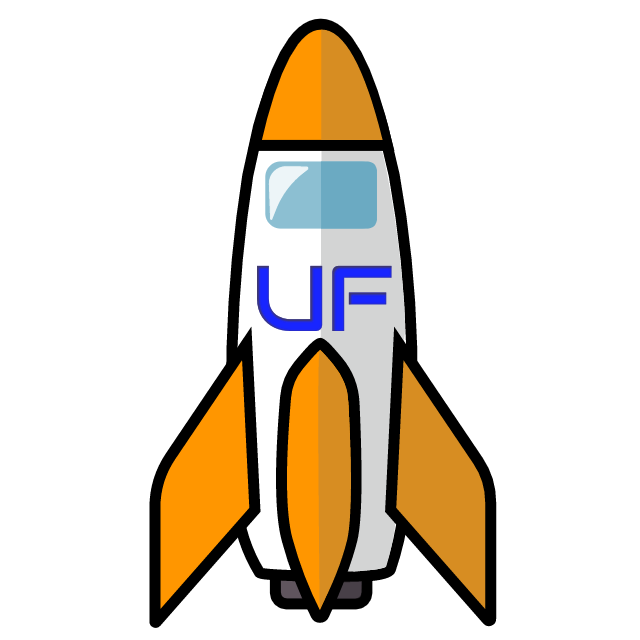
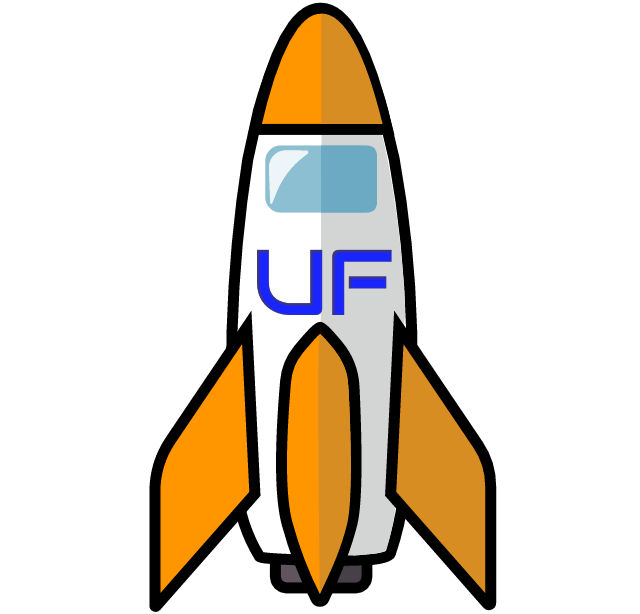
change look of fire
will add more animation later and make it better

diff --git a/css/style.css b/css/style.css
@@ -34,9 +34,15 @@ Basic properties
     padding: 0;
 }
 
+.container{
+  margin: 0 !important;
+  padding: 0 15px;
+}
+
 .navbar
 {
     padding:10px 0px;
+    background-color: #e8dddd !important;
    /* background-color:rgba(135, 206, 135, 0.767) !important; */
     border-bottom: none !important;
     transition: all 0.5s ease-in-out;
@@ -70,8 +76,14 @@ Basic properties
 }
 .navbar-inverse{
     background-color: transparent !important;
+    padding-right:  35px;
+    position:absolute; 
+    right:0;
 }
 
+.navbar-brand {
+    padding: 0 15px 15px !important;
+}
 
 
 
@@ -84,8 +96,8 @@ Slider--HOME
 ======================*/
 .slider{
     width: 100%;
-    height :700px;
-  
+    height: 900px;
+    background-color: black;
     color:black;
 }
 
@@ -104,7 +116,7 @@ max-width: 25%;
 
 .rocket{
     position: relative;
-    top: -100px;
+    top: -180px;
     margin-bottom:; 20%;
     animation: float 4s ease-in-out infinite;
 }
@@ -116,40 +128,221 @@ max-width: 25%;
 }
 
 
+/*.fire {
+  position: relative;
+      display: block;
+      width: 126px;
+      height: 180px;
+      background-color: red;
+      border-radius: 50% 50% 50% 50% / 60% 60% 40% 40%;
+      margin-left: auto;
+       margin-right: auto;
+    }*/
+
+
+
+
 
 /*=======================================
            Fire
 =========================================*/
 
-.fire {
+/*.fire {
   position: relative;
   width: 100px;
   height: 100px;
   background-color: transparent;
   margin-left: auto;
   margin-right: auto;
-}
+}*/
 
 .fire-main {
   position: absolute;
   height: 100%;
   width: 100%;
-  animation: scaleUpDown 5s ease-out;
+  /*animation: scaleUpDown 5s ease-out;*/
   animation-iteration-count: infinite;
   animation-fill-mode: both;
 }
-
-.fire-main .main-fire {
+.fire-inner {
   position: absolute;
-  width: 100%;
   height: 100%;
-  background-image: radial-gradient(farthest-corner at 10px 0, #d43300 0%, #ef5a00 95%);
-  transform: scaleX(0.8) rotate(45deg);
-  border-radius: 60% 40% 0% 40%;
+  width: 100%;
+  /*animation: scaleUpDown 5s ease-out;*/
+  animation-iteration-count: infinite;
+  animation-fill-mode: both;
+}
+.fire-inner{
+  position: relative;
+  width: 5%;
+  height: 70%;
+  position:relative; 
+  margin-left: auto;
+  margin-right: auto;
+  top: -424px;
+  /*background-image: radial-gradient(farthest-corner at 10px 0, #DF5F36 0%, #FFA26A 95%);*/
+  background-image: linear-gradient(to top, #fff0, #ff6e29b5);
+  /* transform: scaleX(0.8) rotate(45deg); */
+  border-radius: 60% 60% 0% 0% / 60% 60% 40% 40%;
   filter: drop-shadow(0 0 10px #d43322);
 }
+.fire-main .main-fire {
+  position: absolute;
+  width: 10%;
+  height: 130%;
+  position:relative; 
+  margin-left: auto;
+  margin-right: auto;
+  /*background-image: radial-gradient(farthest-corner at 10px 0, #d43300 0%, #ef5a00 95%);*/
+  background-image: linear-gradient(to top, #ef5a0000, #d43300);
+  /* transform: scaleX(0.8) rotate(45deg); */
+  border-radius: 60% 60% 0% 0% / 60% 60% 40% 40%;
+  filter: drop-shadow(0 0 10px #F4A389);
+}
 
-.fire-main .particle-fire {
+
+// -----------------------------------------------------------------------------
+// Twinkle Animations
+// -----------------------------------------------------------------------------
+// - - - - - - - - - - - - - - - - - - - - - - - - - - - - - - - - - - - - - - -
+// Twinkle Animations > Twinkle 1
+// - - - - - - - - - - - - - - - - - - - - - - - - - - - - - - - - - - - - - - -
+@-webkit-keyframes twinkle_one {
+  0%   { opacity: 1; }
+  30%  { opacity: 1; }
+  70%  { opacity: 0; }
+  100% { opacity: 1; }
+}
+@-moz-keyframes twinkle_one {
+  0%   { opacity: 1; }
+  30%  { opacity: 1; }
+  70%  { opacity: 0; }
+  100% { opacity: 1; }
+}
+@-o-keyframes twinkle_one {
+  0%   { opacity: 1; }
+  30%  { opacity: 1; }
+  70%  { opacity: 0; }
+  100% { opacity: 1; }
+}
+@keyframes twinkle_one {
+  0%   { opacity: 1; }
+  30%  { opacity: 1; }
+  70%  { opacity: 0; }
+  100% { opacity: 1; }
+}
+
+// - - - - - - - - - - - - - - - - - - - - - - - - - - - - - - - - - - - - - - -
+// Twinkle Animations > Twinkle 2
+// - - - - - - - - - - - - - - - - - - - - - - - - - - - - - - - - - - - - - - -
+@-webkit-keyframes twinkle_two {
+  0%   { opacity: 1; }
+  25%  { opacity: 0; }
+  80%  { opacity: 0; }
+  100% { opacity: 1; }
+}
+@-moz-keyframes twinkle_two {
+  0%   { opacity: 1; }
+  25%  { opacity: 0; }
+  80%  { opacity: 0; }
+  100% { opacity: 1; }
+}
+@-o-keyframes twinkle_two {
+  0%   { opacity: 1; }
+  25%  { opacity: 0; }
+  80%  { opacity: 0; }
+  100% { opacity: 1; }
+}
+@keyframes twinkle_two {
+  0%   { opacity: 1; }
+  25%  { opacity: 0; }
+  80%  { opacity: 0; }
+  100% { opacity: 1; }
+}
+
+// - - - - - - - - - - - - - - - - - - - - - - - - - - - - - - - - - - - - - - -
+// Twinkle Animations > Twinkle 3
+// - - - - - - - - - - - - - - - - - - - - - - - - - - - - - - - - - - - - - - -
+@-webkit-keyframes twinkle_three {
+  0%   { opacity: 1; }
+  30%  { opacity: 0; }
+  40%  { opacity: 0; }
+  100% { opacity: 1; }
+}
+@-moz-keyframes twinkle_three {
+  0%   { opacity: 1; }
+  30%  { opacity: 0; }
+  40%  { opacity: 0; }
+  100% { opacity: 1; }
+}
+@-o-keyframes twinkle_three {
+  0%   { opacity: 1; }
+  30%  { opacity: 0; }
+  40%  { opacity: 0; }
+  100% { opacity: 1; }
+}
+@keyframes twinkle_three {
+  0%   { opacity: 1; }
+  30%  { opacity: 0; }
+  40%  { opacity: 0; }
+  100% { opacity: 1; }
+}
+
+.galaxy{
+    z-index: 0;
+    position: absolute;
+    left: 0;
+    right: 0;
+    width: 1200px;
+    height: 600px;
+    margin: 0 auto;
+    background-color: black;
+      
+      .star{
+        position: absolute;
+        background-color: white;
+      }
+
+      .star-type1{
+        width: 1px;
+        height: 1px;
+        border-radius: 2px;
+        -webkit-box-shadow: 0 0 1px 1px white;
+                box-shadow: 0 0 1px 1px white;
+        -webkit-animation: twinkle_one 3s ease-in-out infinite;
+           -moz-animation: twinkle_one 3s ease-in-out infinite;
+             -o-animation: twinkle_one 3s ease-in-out infinite;
+                animation: twinkle_one 3s ease-in-out infinite;
+      }
+      .star-type2{
+        width: 2px;
+        height: 2px;
+        border-radius: 2px;
+        -webkit-box-shadow: 0 0 2px 1px white;
+                box-shadow: 0 0 2px 1px white;
+        -webkit-animation: twinkle_two 12s ease-in-out infinite;
+           -moz-animation: twinkle_two 12s ease-in-out infinite;
+             -o-animation: twinkle_two 12s ease-in-out infinite;
+                animation: twinkle_two 12s ease-in-out infinite;
+      }
+      .star-type3{
+        width: 2px;
+        height: 2px;
+        border-radius: 2px;
+        -webkit-box-shadow: 0 0 2px 0 white;
+                box-shadow: 0 0 2px 0 white;
+        -webkit-animation: twinkle_three 7s ease-in-out infinite;
+           -moz-animation: twinkle_three 7s ease-in-out infinite;
+             -o-animation: twinkle_three 7s ease-in-out infinite;
+                animation: twinkle_three 7s ease-in-out infinite;
+      }
+      
+    }
+
+
+
+
+/*.fire-main .particle-fire {
   position: absolute;
   top: 60%;
   left: 45%;
@@ -158,11 +351,11 @@ max-width: 25%;
   background-color: #ef5a00;
   border-radius: 50%;
   filter: drop-shadow(0 0 50px #B63325);
-  animation: particleUp 2s ease-out 0;
+  /*animation: particleUp 2s ease-out 0;*/
   animation-iteration-count: infinite;
   animation-fill-mode: both;
-}
-
+}*/
+/*
 .fire-right {
   height: 100%;
   width: 100%;
@@ -247,7 +440,7 @@ max-width: 25%;
   animation-iteration-count: infinite;
   animation-fill-mode: both;
 }
-
+*/
 /*=======================================
             Animals
 =========================================*/ 

diff --git a/index.html b/index.html
@@ -25,6 +25,7 @@
 
 <!-- Latest compiled JavaScript -->
 <script src="js/bootstrap.min.js" type="text/javascript"></script>
+<script src="js/randomstars.js" type="text/javascript"></script>
  
             
 </head>
@@ -34,7 +35,7 @@
     <nav class="navbar  navbar-fixed-top ">
         <div class="container">
                <div class="navbar-header">
-             <a href="" class="navbar-brand animated bounceInDown"><img src="images/icon.png"></a> <!---------logo here -->
+             <a href="" class="navbar-brand animated bounceInDown"><img src="images/icon.png" height="60vmin" width="60vmin"></a> <!---------logo here -->
                    </div>
          
                  <!---------Navigation menus-->
@@ -56,7 +57,9 @@
            <div class="slider-content">
            		<section class="home" id="home">
             	<!-- <h2><b>Home</b></h2> -->
+                <div class="galaxy"></div>
                     <div class = "rocket">
+                        <div class = "egg"></div>
                     	<img src="images/rocket.png" id="rocket"/>
                         <div class="fire">
                           <div class="fire-left">
@@ -65,6 +68,7 @@
                           </div>
                           <div class="fire-main">
                             <div class="main-fire"></div>
+                              <div class="fire-inner">
                             <div class="particle-fire"></div>
                           </div>
                           <div class="fire-right">

diff --git a/js/randomstars.js b/js/randomstars.js
@@ -1,0 +1,26 @@
+// Random Stars
+var generateStars = function(){
+    
+    var $galaxy = $(".galaxy");
+    var iterator = 0;
+    
+    while (iterator <= 100){
+        var xposition = Math.random();
+        var yposition = Math.random();
+        var star_type = Math.floor((Math.random() * 3) + 1);
+        var position = {
+            "x" : $galaxy.width() * xposition,
+            "y" : $galaxy.height() * yposition,
+        };
+        
+        $('<div class="star star-type' + star_type + '"></div>').appendTo($galaxy).css({
+            "top" : position.y,
+            "left" : position.x
+        });
+        
+        iterator++;
+    }
+    
+};
+
+generateStars();
